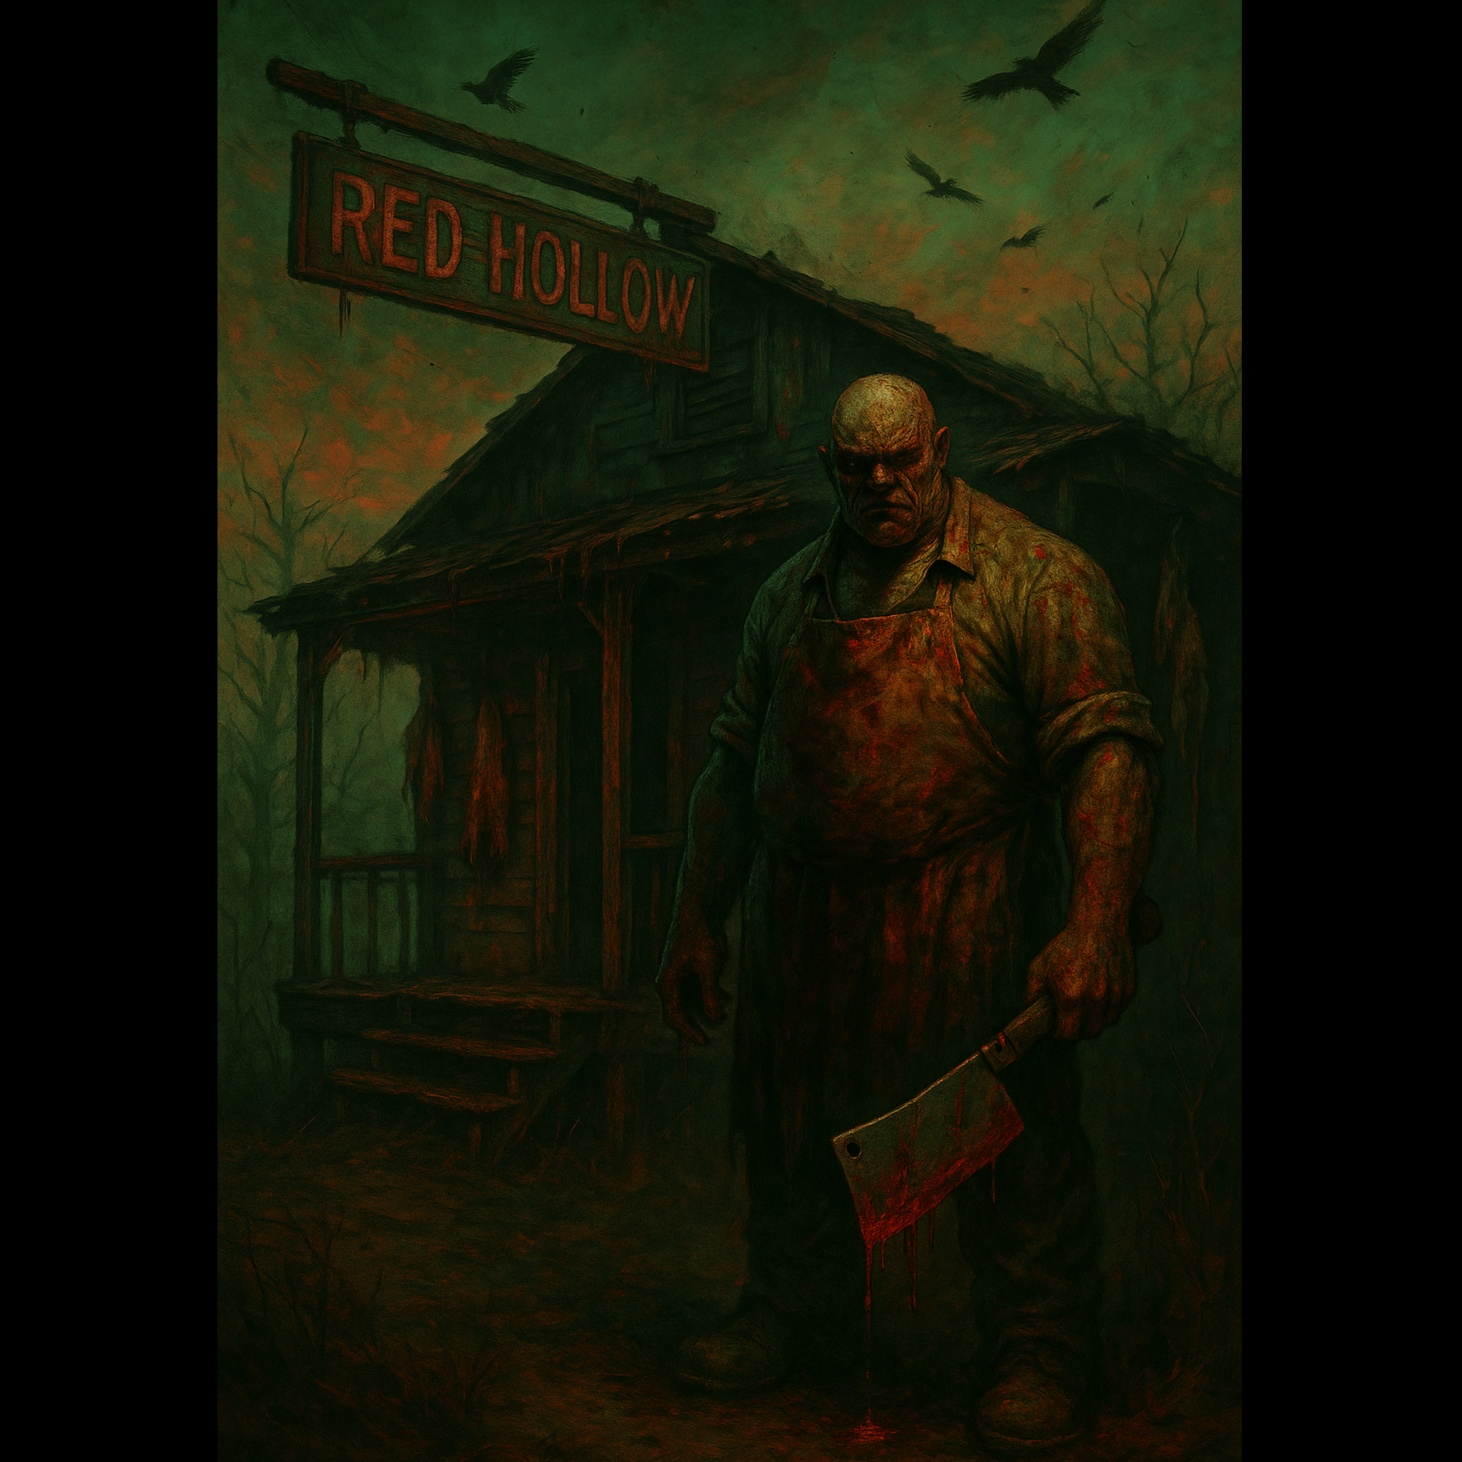
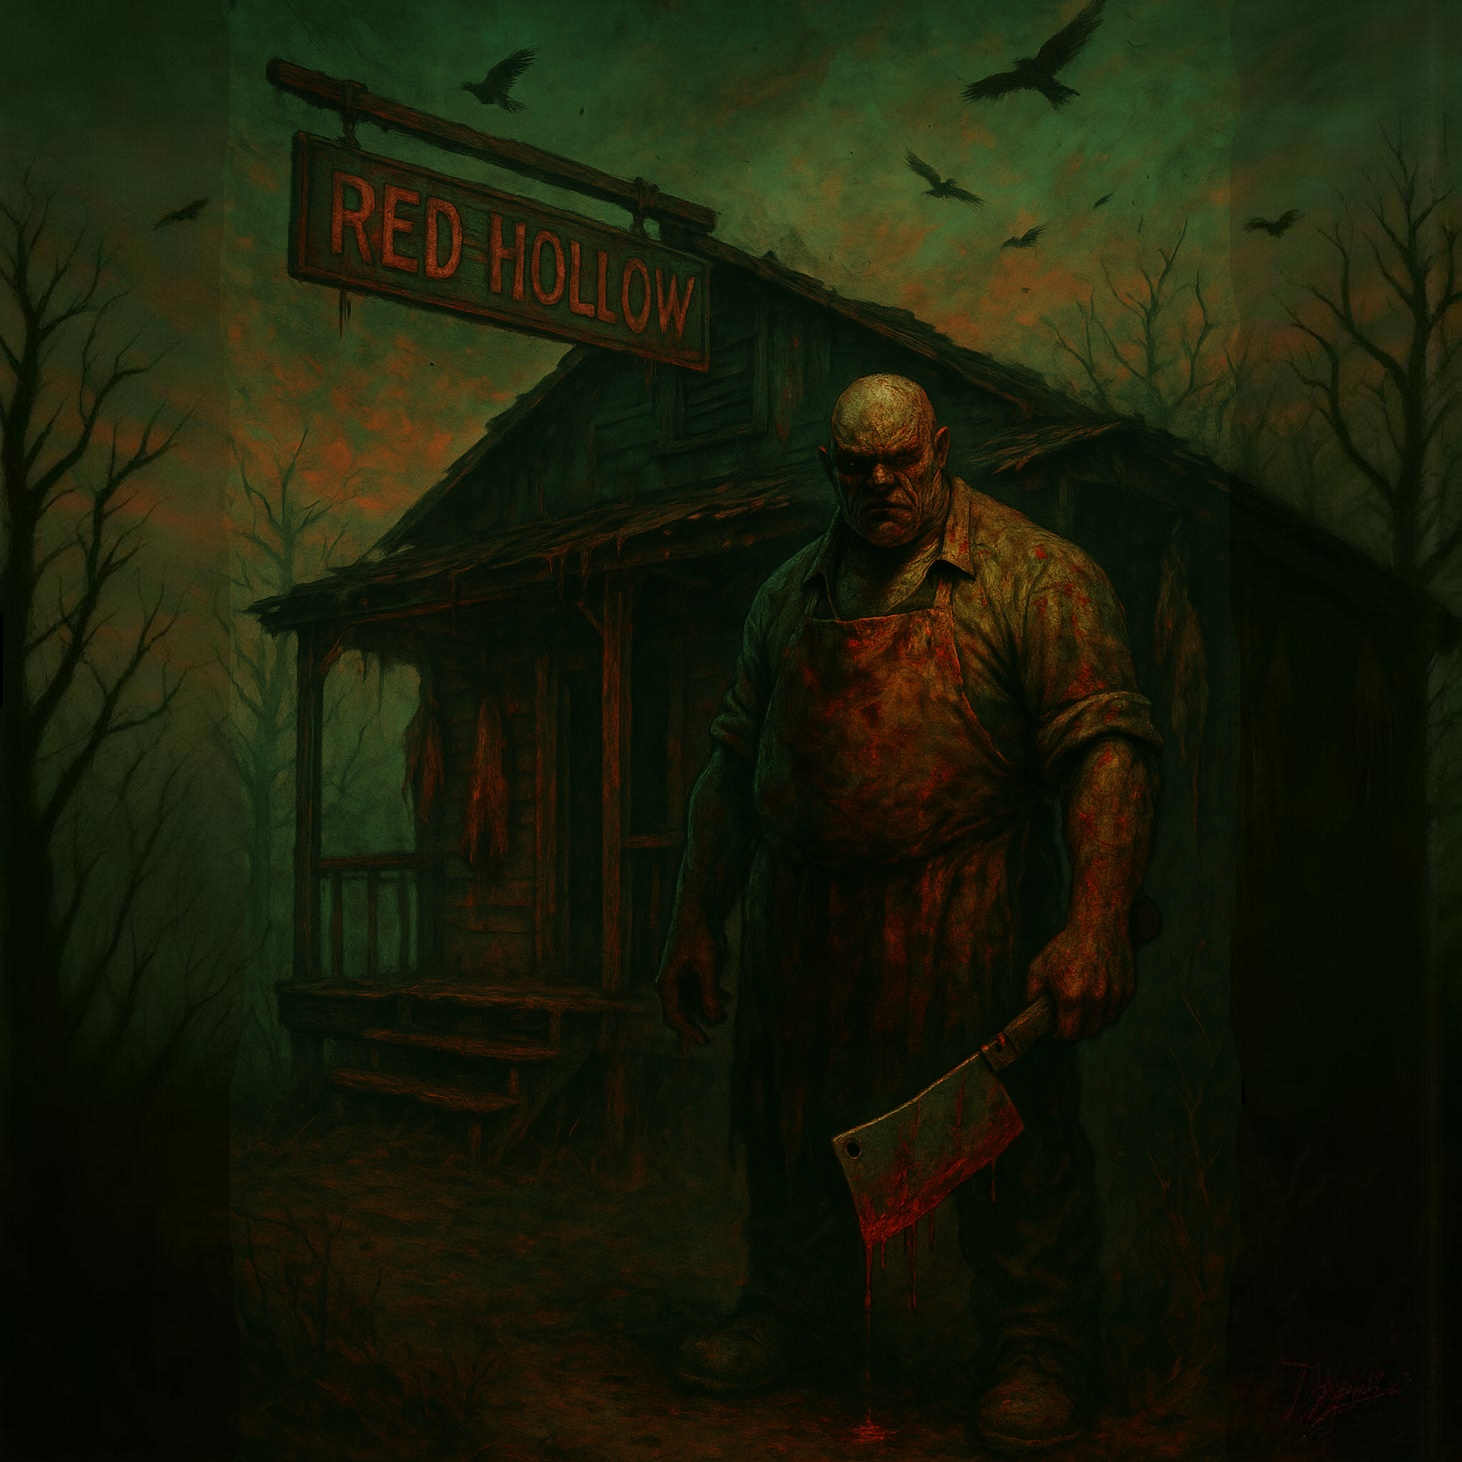
Update songs and resize RedHollow song image

Changed region(s): [[0.0, 0.0, 0.1539, 0.7079], [0.8311, 0.0, 1.0, 0.6156]]

diff --git a/src/lib/utils/sortSongs.ts b/src/lib/utils/sortSongs.ts
@@ -6,14 +6,21 @@ import type { Song } from '$lib/types/songs';
  * @returns The sorted array of songs in ascending order by date published
  */
 export const sortSongsByDateAscending = (songs: Song[]): Song[] => {
-	return songs.sort((a, b) => a.datePublished.getTime() - b.datePublished.getTime());
+	return songs.sort(
+		(a, b) => new Date(a.datePublished).getTime() - new Date(b.datePublished).getTime()
+	);
 };
 
 /**
  * Sort Songs by Date Descending
  * @param songs The array of songs to be sorted
- * @returns The sorted array of songs in descending order by date published
+	return songs.sort(
+		(a, b) =>
+			new Date(b.datePublished).getTime() - new Date(a.datePublished).getTime()
+	);
  */
 export const sortSongsByDateDescending = (songs: Song[]): Song[] => {
-	return songs.sort((a, b) => b.datePublished.getTime() - a.datePublished.getTime());
+	return songs.sort(
+		(a, b) => new Date(b.datePublished).getTime() - new Date(a.datePublished).getTime()
+	);
 };
